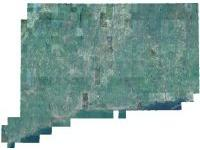
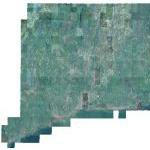
Cropped CTEco images, added CTEco view, controller, and factory
CTEco images are now square for thumbnail view, CTEco view is populated
from controller and factory

diff --git a/www/js/services/cteco.factory.js b/www/js/services/cteco.factory.js
@@ -20,7 +20,7 @@
         };
 
         var openSpace1 = {
-            name: "Protected Open Space Mapping Project",
+            name: 'Protected Open Space Mapping Project',
             layer: L.esri.dynamicMapLayer({
                 url: 'http://www.ctecoapp2.uconn.edu/ArcGIS/rest/services/maps/Open_Space/MapServer/',
                 opacity: 0.5,
@@ -38,7 +38,7 @@
         };
 
         var openSpace3 = {
-            name: "Federal Open Space",
+            name: 'Federal Open Space',
             layer: L.esri.dynamicMapLayer({
                 url: 'http://www.ctecoapp2.uconn.edu/ArcGIS/rest/services/maps/Open_Space/MapServer/',
                 opacity: 0.5,
@@ -47,7 +47,7 @@
         };
 
         var openSpace4 = {
-            name: "DEP Property",
+            name: 'DEP Property',
             layer: L.esri.dynamicMapLayer({
                 url: 'http://www.ctecoapp2.uconn.edu/ArcGIS/rest/services/maps/Open_Space/MapServer/',
                 opacity: 0.5,
@@ -73,32 +73,163 @@
             })
         };
 
+        var bedrockGeology = {
+            name: 'Bedrock Geology',
+            image: 'img/bedrock.gif',
+            layers: {}
+        };
+
+        var elevationB = {
+            name: 'Elevation and Bathymetry',
+            image: 'img/elevation_bathymetry.gif'
+        };
+
+        var erosion = {
+            name: 'Erosion Susceptibility',
+            image: 'img/erosionsusceptibility.gif'
+        };
+
+        var habitat = {
+            name: 'Habitat',
+            image: 'img/habitat.gif'
+        };
+
+        var hurricaneEvac = {
+            name: 'Hurricane Evacuation Zones 2014',
+            image: 'img/hurricane_evacuation_zones_2014.gif'
+        };
+
+        var hurricaneSurge = {
+            name: 'Hurricane Surge Inundation',
+            image: 'img/hurricane_surge_inundation.gif'
+        };
+
+        var nwiWetlands = {
+            name: 'NWI Wetlands Functions 2010',
+            image: 'img/nwi_wetland_function_2010.gif'
+        };
+
+        var openSpace = {
+            name: 'Open Space',
+            image: 'img/open_space.gif'
+        };
+
+        var ortho1990 = {
+            name: 'Ortho 1990',
+            image: 'img/ortho_1990.jpg'
+        };
+
+        var ortho2004 = {
+            name: 'Ortho 2004',
+            image: 'img/ortho_2004.jpg'
+        };
+
+        var ortho2004cc = {
+            name: 'Ortho 2004 Coast Color',
+            image: 'img/ortho_2004_cc.jpg'
+        };
+
+        var ortho2004ci = {
+            name: 'Ortho 2004 Coast Infrared',
+            image: 'img/ortho_2004_ci.jpg'
+        };
+
+        var ortho2005ci = {
+            name: 'Ortho 2005 Coast Infrared',
+            image: 'img/ortho_2005_ci.jpg'
+        };
+
+        var ortho2006 = {
+            name: 'Ortho 2006 Color NAIP',
+            image: 'img/ortho_2006.jpg'
+        };
+
+        var ortho2008naip = {
+            name: 'Ortho 2008 4Band NAIP',
+            image: 'img/ortho_2008_naip.jpg'
+        };
+
+        var ortho2008ua = {
+            name: 'Ortho 2008 Urban Area Color',
+            image: 'img/ortho_2008_ua.jpg'
+        };
+
+        var ortho2009 = {
+            name: 'Ortho 2009 CRCOG Color',
+            image: 'img/ortho_2009.jpg'
+        };
+
+        var ortho2010coast = {
+            name: 'Ortho 2010 Coast 4Band',
+            image: 'img/ortho_2010_coast.jpg'
+        };
+
+        var ortho2010naip = {
+            name: 'Ortho 4Band NAIP',
+            image: 'img/ortho_2010_naip.jpg'
+        };
+
+        var quaternary = {
+            name: 'Quaternary Geology',
+            image: 'img/quaternary.gif'
+        };
+
+        var soils = {
+            name: 'Soils',
+            image: 'img/soils.gif'
+        };
+
+        var surficialMats = {
+            name: 'Surficial Materials',
+            image: 'img/surficial_materials.gif'
+        };
+
+        var waterResource = {
+            name: 'Water Resource Management',
+            image: 'img/water_resource_mgmt.gif'
+        };
+
+        var watershed = {
+            name: 'Watershed',
+            image: 'img/watershed.gif'
+        };
+
+        var categories = {
+            bedrockGeology: bedrockGeology,
+            elevationB: elevationB,
+            erosion: erosion,
+            habitat: habitat,
+            hurricaneEvac: hurricaneEvac,
+            hurricaneSurge: hurricaneSurge,
+            nwiWetlands: nwiWetlands,
+            openSpace: openSpace,
+            ortho1990: ortho1990,
+            ortho2004: ortho2004,
+            ortho2004cc: ortho2004cc,
+            ortho2004ci: ortho2004ci,
+            ortho2005ci: ortho2005ci,
+            ortho2006: ortho2006,
+            ortho2008naip: ortho2008naip,
+            ortho2008ua: ortho2008ua,
+            ortho2009: ortho2009,
+            ortho2010coast: ortho2010coast,
+            ortho2010naip: ortho2010naip,
+            quaternary: quaternary,
+            soils: soils,
+            surficialMats: surficialMats,
+            waterResource: waterResource,
+            watershed: watershed
+        };
+
         var service = {
-            getcteco: getcteco
+            getCtecoCategories: getCtecoCategories
         };
         return service;
 
         ////////////////
 
-        function getcteco(layer) {
-            switch (layer) {
-                case 'openSpace0':
-                    return openSpace0;
-                case 'openSpace1':
-                    return openSpace1;
-                case 'openSpace2':
-                    return openSpace2;
-                case 'openSpace3':
-                    return openSpace3;
-                case 'openSpace4':
-                    return openSpace4;
-                case 'openSpace5':
-                    return openSpace5;
-                case 'openSpace6':
-                    return openSpace6;
-                default:
-                    return '';
-            }
+        function getCtecoCategories() {
+            return categories;
         }
     }
 })();

diff --git a/www/js/controllers/cteco.controller.js b/www/js/controllers/cteco.controller.js
@@ -1,0 +1,24 @@
+(function() {
+    'use strict';
+
+    angular
+        .module('TractNotes')
+        .controller('ctecoController', ctecoController);
+
+    /* @ngInject */
+    function ctecoController($scope, ctecoService) {
+        var vm = this;
+        vm.title = 'ctecoController';
+        vm.categories = [];
+
+        //////////////// 
+
+        function activate() {
+            vm.categories = ctecoService.getCtecoCategories();
+        }
+
+        activate();
+    }
+
+    ctecoController.$inject = ['$scope', 'ctecoService'];
+})();

diff --git a/www/js/app.js b/www/js/app.js
@@ -72,6 +72,17 @@
                         controller: 'DriveController'
                     }
                 }
+        })
+
+        .state('app.cteco', {
+                url: '/cteco',
+                views: {
+                    'menuContent': {
+                        templateUrl: 'templates/cteco.html',
+                        controller: 'ctecoController',
+                        controllerAs: 'vm'
+                    }
+                }
         });
 
         // if none of the above states are matched, use this as the fallback

diff --git a/www/index.html b/www/index.html
@@ -51,6 +51,7 @@
     <script src="js/controllers/control.controller.js"></script>
     <script src="js/controllers/gauth.controller.js"></script>
     <script src="js/controllers/drive.controller.js"></script>
+    <script src="js/controllers/cteco.controller.js"></script>
 
     <!-- Services -->
     <script src="js/services/location.factory.js"></script>

diff --git a/www/templates/menu.html b/www/templates/menu.html
@@ -30,7 +30,7 @@
         <i class="icon ion-earth"></i>
           Add Map Service
         </ion-item>
-        <ion-item class="item-icon-left" menu-close href="#/app/WMS">
+        <ion-item class="item-icon-left" menu-close href="#/app/cteco">
         <i class="icon ion-map"></i>
           Add CTECO data
         </ion-item>

diff --git a/www/templates/cteco.html b/www/templates/cteco.html
@@ -1,0 +1,10 @@
+<ion-view title="CTEco Layers">
+	<ion-content>
+		<ion-list>
+			<ion-item ng-repeat="category in vm.categories" class="item item-thumbnail-left"> 
+				<img ng-src="{{category.image}}">
+				<div class="item-text-center">{{category.name}}</div>
+			</ion-item>
+		</ion-list>
+	</ion-content>
+</ion-view>

diff --git a/www/css/style.css b/www/css/style.css
@@ -146,7 +146,6 @@ body {
 
 .popover {
   height: 400px;
-  width: 175px;
 }
 .popover-body {
   background-color: black;
